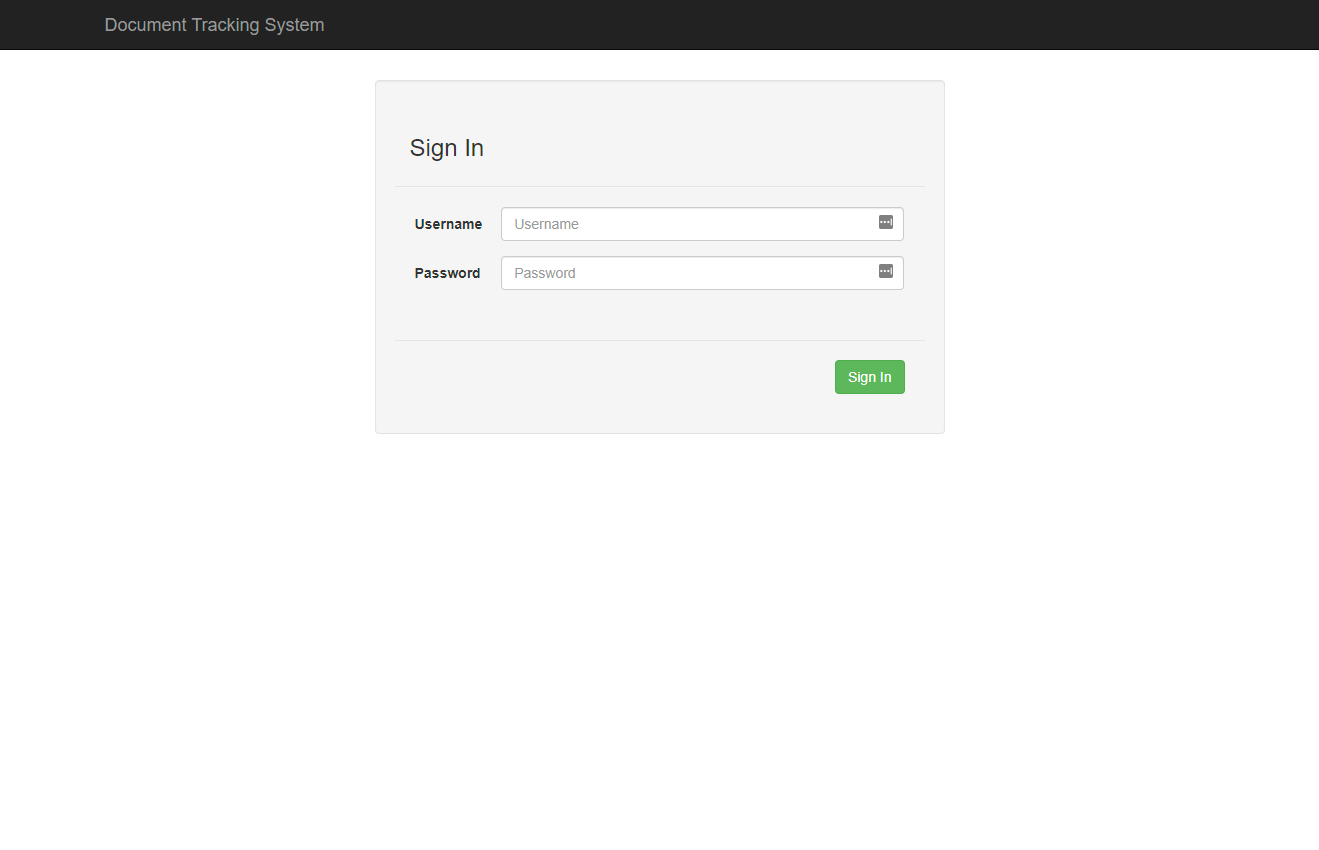
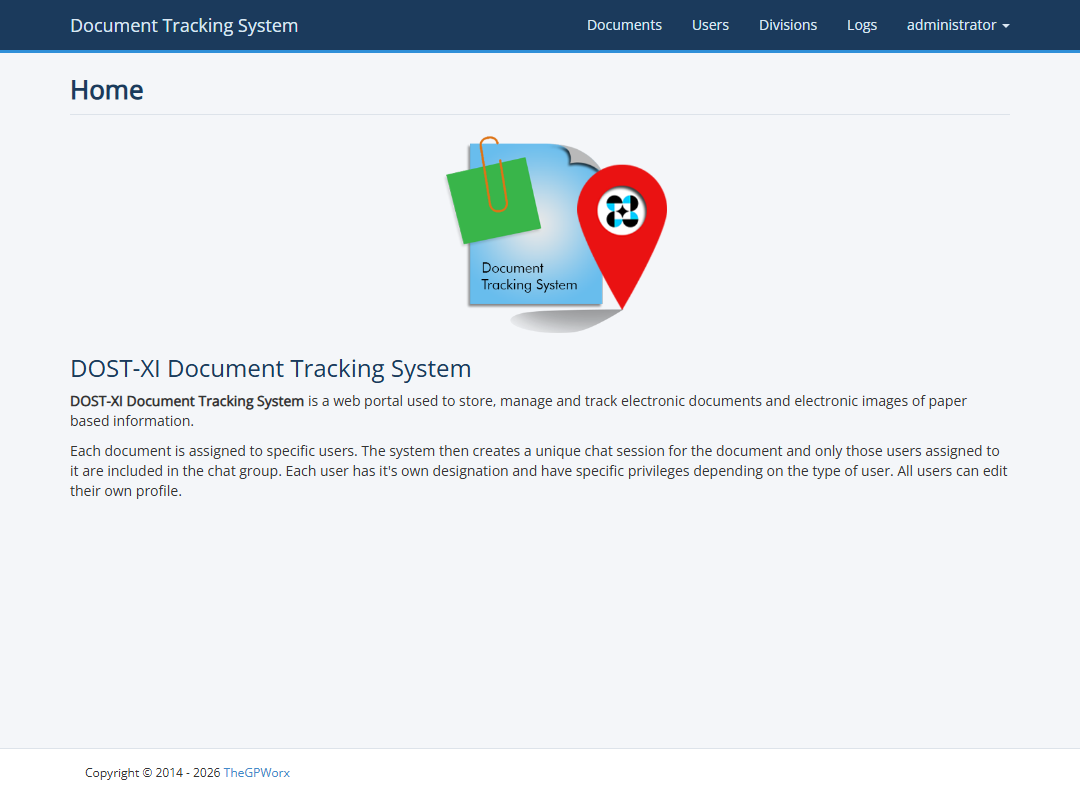
Add gallery screenshots for the DTS and SIG Inventory projects

diff --git a/src/app/data/projects.ts b/src/app/data/projects.ts
@@ -116,6 +116,13 @@ export const projects: Project[] = [
     tech: ['PHP', 'jQuery'],
     platform: 'web',
     cover: img('dts'),
+    screenshots: [
+      { src: img('dts', '01.png'), caption: 'Sign in' },
+      { src: img('dts', '02.png'), caption: 'All documents with status icons, deadlines and search' },
+      { src: img('dts', '03.png'), caption: 'Users with their type and division' },
+      { src: img('dts', '04.png'), caption: 'Divisions of the office' },
+      { src: img('dts', '05.png'), caption: 'Activity log of every action taken' },
+    ],
   },
   {
     slug: 'mak',
@@ -139,6 +146,15 @@ export const projects: Project[] = [
     tech: ['PHP', 'jQuery'],
     platform: 'web',
     cover: img('sig-inventory'),
+    screenshots: [
+      { src: img('sig-inventory', '01.png'), caption: 'Sign in' },
+      { src: img('sig-inventory', '02.png'), caption: 'Inventory by floor: owner, location, computer, processor and RAM' },
+      { src: img('sig-inventory', '03.png'), caption: 'Paged inventory list' },
+      { src: img('sig-inventory', '04.png'), caption: 'Second floor tab' },
+      { src: img('sig-inventory', '05.png'), caption: 'Add entry form for a computer and its monitors' },
+      { src: img('sig-inventory', '06.png'), caption: 'Entry details, locked until Enable Edit is pressed' },
+      { src: img('sig-inventory', '07.png'), caption: 'Print options to pick which floors to print' },
+    ],
   },
   {
     slug: 'ccam',
